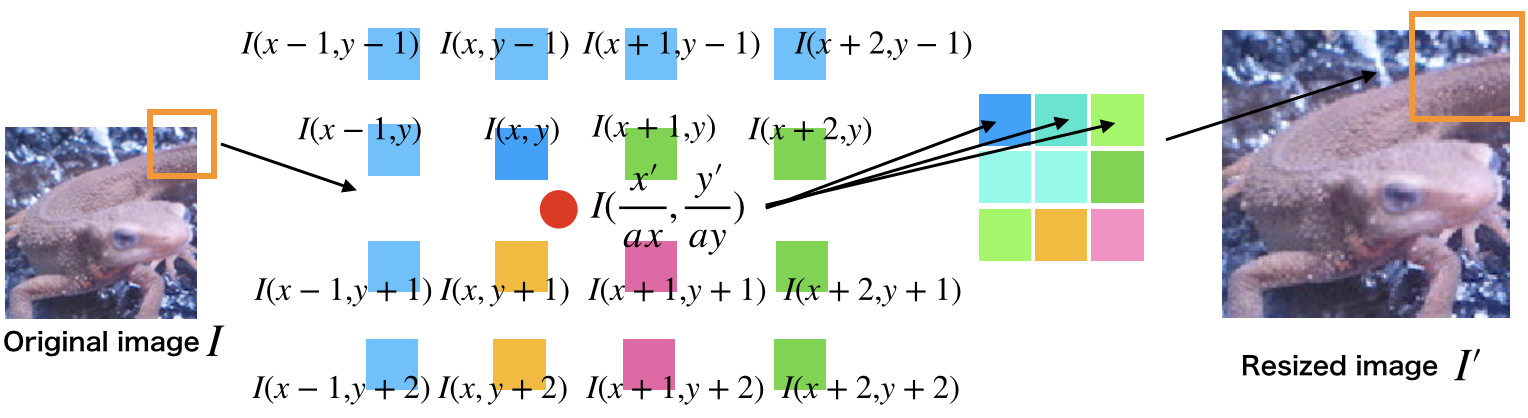
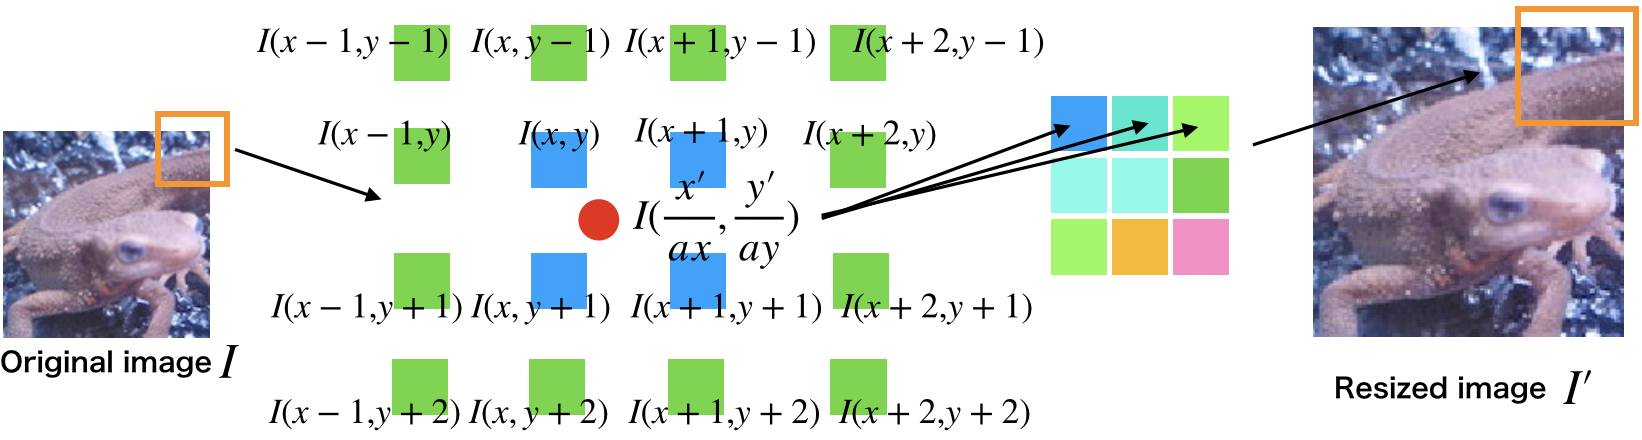
add

diff --git a/Question_21_30/README.md b/Question_21_30/README.md
@@ -41,7 +41,7 @@ xout = {  a                         (xin < c)
 
 平均値m、標準偏差s、のヒストグラムを平均値m0, 標準偏差s0に変更するには、次式によって変換する。
 
-<img src="assets/hist_mani_equ.png" width="100">
+<img src="assets/hist_mani_equ.png" width="200">
 
 <!--
 ```bash
@@ -68,7 +68,7 @@ xout = s0 / s * (xin - m) + m0
 これは次式で定義される。
 ただし、S ... 画素値の総数、Zmax ... 画素値の最大値、h(z) ... 濃度zの度数
 
-<img src="assets/hist_equ_equ.png" width="100">
+<img src="assets/hist_equ_equ.png" width="200">
 
 <!--
 ```bash
@@ -98,7 +98,7 @@ Z' = Zmax / S * Sum{i=0:z} h(z)
 ただしxは[0,1]に正規化されている。
 c ... 定数、g ... ガンマ特性(通常は2.2)
 
-<img src="assets/gamma_equ1.png" width="100">
+<img src="assets/gamma_equ1.png" width="200">
 
 <!--
 ```bash
@@ -108,7 +108,7 @@ x' = c * Iin ^ g
 
 そこで、ガンマ補正は次式で行われる。
 
-<img src="assets/gamma_equ2.png" width="100">
+<img src="assets/gamma_equ2.png" width="200">
 
 <!--
 ```bash
@@ -216,7 +216,7 @@ dy1 = y'/a - (y-1) , dy2 = y'/a - y , dy3 = (y+1) - y'/a , dy4 = (y+2) - y'/a
 -->
 
 重みは距離によって次の関数により決定される。
-a は多くの場合-1となる。
+a は多くの場合-1をとる。だいたい図の青色のピクセルは距離|t|<=1、緑色が1<|t|<=2の重みとなる。
 
 <img src="assets/bci_equ2.png" width="500">
 
@@ -258,33 +258,53 @@ I'(x', y') = (Sum{i=-1:2}{j=-1:2} I(x+i,y+j) * wxi * wyj) / Sum{i=-1:2}{j=-1:2} 
 元画像を(x,y)、変換後の画像を(x',y')とする。
 画像の拡大縮小は、次式で表される。
 
+<img src="affine_equ1.png" width="200">
+
+<!--
 ```bash
 [ x' ] = [a b][x]
   y'      c d  y
 ```
+-->
 
 一方、平行移動は次式となる。
 
+<img src="affine_equ2.png" width="200">
+
+<!--
 ```bash
 [ x' ] = [x] + [tx]
   y'      y  +  ty
 ```
+-->
 
 以上を一つの式にまとめると、次式になり、これがアフィン変換である。
 
+<img src="affine_equ3.png" width="200">
+
+<!--
 ```bash
   x'       a b tx    x
 [ y' ] = [ c d ty ][ y ]
   1        0 0  1    1
 ```
+-->
+
+しかし実装する時は、元画像に対して１ピクセルずつ行うと、処理後の画像で値が割り当てられない可能性がでてきてしまう。よって、処理後画像の各ピクセルに対してAffine変換の逆変換を行い、値をあ割り当てる元画像の座標を取得する必要がある。Affine変換の逆操作は次式となる。
+
+<img src="affine_equ6.png" width="300">
 
 平行移動では次式を用いる。
 
+<img src="affine_equ4.png" width="200">
+
+<!--
 ```bash
   x'       1 0 tx    x
 [ y' ] = [ 0 1 ty ][ y ]
   1        0 0  1    1
 ```
+-->
 
 |入力 (imori.jpg)|出力 (answers/answer_28.jpg)|
 |:---:|:---:|
@@ -317,11 +337,15 @@ I'(x', y') = (Sum{i=-1:2}{j=-1:2} I(x+i,y+j) * wxi * wyj) / Sum{i=-1:2}{j=-1:2} 
 
 アフィン変換において、反時計方向にA度回転させる時は、次式となる。
 
+<img src="affine_equ5.png" width="200">
+
+<!--
 ```bash
   x'       cosA -sinA tx    x
 [ y' ] = [ sinA  cosA ty ][ y ]
   1         0     0    1    1
 ```
+-->
 
 |入力 (imori.jpg)|出力 (1) (answers/answer_30_1.jpg)|出力 (2) (answers/answer_30_2.jpg)|
 |:---:|:---:|:---:|
